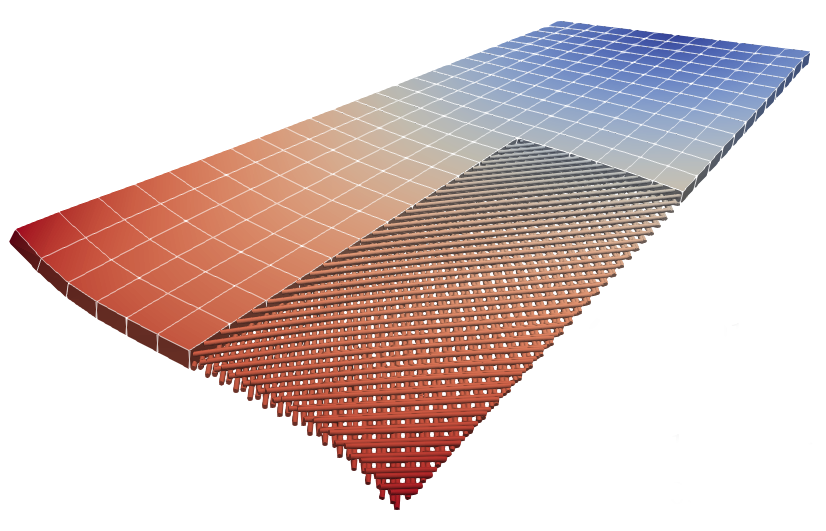
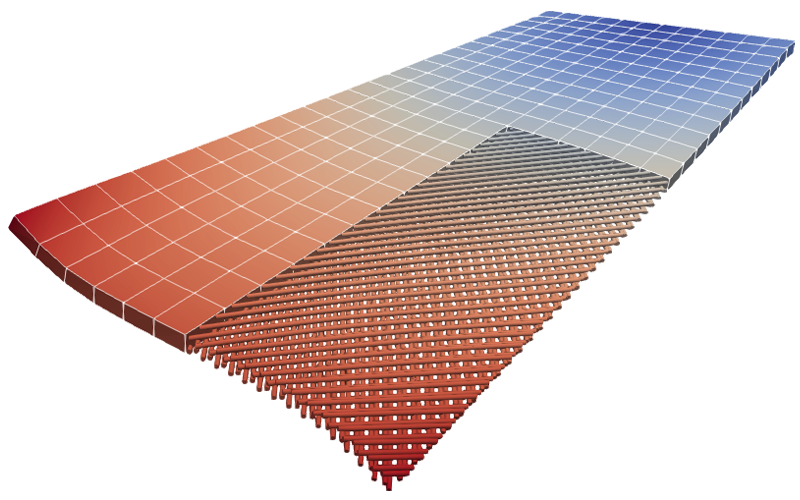
feat: polish website
- remove sidebar
- open links in new tab
- clean-up images (transparent + same size)

diff --git a/website/docs/source/static/js/custom.js b/website/docs/source/static/js/custom.js
@@ -1,0 +1,12 @@
+/*
+ * This script modifies external links in the Sphinx-generated HTML.
+ * All external links (http/https) that are NOT marked as internal
+ * will be opened in a new browser tab.
+ *
+ * We use jQuery's $(document).ready() to wait until the DOM is fully loaded.
+ */
+$(document).ready(function () {
+    $('a[href^="http://"], a[href^="https://"]')
+        .not('a[class*=internal]')
+        .attr('target', '_blank');
+});

diff --git a/website/docs/source/conf.py b/website/docs/source/conf.py
@@ -31,13 +31,21 @@ html_title = "MeshPy"
 html_theme_options = {
     "github_url": "https://github.com/imcs-compsim/meshpy",
 }
+html_show_sourcelink = False  # Hide "View Source" link on the right side of the page
 
-# myst configuration (markdown support)
+# extensions
 extensions = [
-    "myst_parser",
+    "myst_parser",  # to enable Markdown support
+    "sphinxcontrib.jquery",  # to enable custom JavaScript (open links in new empty tab)
 ]
+
+# markdown configuration
 myst_enable_extensions = [
     "colon_fence",  # For ::: fenced code blocks
     "linkify",  # Auto-detects URLs and makes them hyperlinks
 ]
 myst_heading_anchors = 3  # automatic heading anchors for Markdown files
+
+# JavaScript configuration (to open links in new tabs)
+html_js_files = ["js/custom.js"]
+html_static_path = ["static"]

diff --git a/README.md b/README.md
@@ -72,25 +72,28 @@ the [Institute for Computational Mechanics (LNM)](https://www.epc.ed.tum.de/lnm/
 
 ## Examples
 
-<p align="center">
-  <img src="https://raw.githubusercontent.com/imcs-compsim/meshpy/refs/heads/main/doc/assets/honeycomb.png" width="350" title="Honeycomb structure under tension (simulated with 4C)">
-</p>
-<p align="center" style="font-style: italic; color: gray;">Honeycomb structure under tension (simulated with 4C)</p>
-
-<p align="center">
-  <img src="https://raw.githubusercontent.com/imcs-compsim/meshpy/refs/heads/main/doc/assets/composite_plate.png" width="400" title="Fiber reinforced composite plate (simulated with 4C)">
-</p>
-<p align="center" style="font-style: italic; color: gray;">Fiber reinforced composite plate (simulated with 4C)</p>
-
-<p align="center">
-  <img src="https://raw.githubusercontent.com/imcs-compsim/meshpy/refs/heads/main/doc/assets/pressure_pipe.png" width="350" title="Fiber reinforced pipe under pressure (simulated with 4C)">
-</p>
-<p align="center" style="font-style: italic; color: gray;">Fiber reinforced pipe under pressure (simulated with 4C)</p>
-
-<p align="center">
-  <img src="https://raw.githubusercontent.com/imcs-compsim/meshpy/refs/heads/main/doc/assets/twisted_plate.png" width="350" title="Fiber reinforcements of a twisted plate (simulated with 4C)">
-</p>
-<p align="center" style="font-style: italic; color: gray;">Fiber reinforcements of a twisted plate (simulated with 4C)</p>
+<table style="margin-left: auto; margin-right: auto; border-collapse: separate; border-spacing: 20px;">
+  <tr>
+    <td align="center">
+      <img src="https://raw.githubusercontent.com/imcs-compsim/meshpy/refs/heads/main/doc/assets/honeycomb.png" width="350" class="dark-light" title="Honeycomb structure under tension">
+      <div style="font-style: italic; color: gray; margin-top: 5px;">Honeycomb structure under tension</div>
+    </td>
+    <td align="center">
+      <img src="https://raw.githubusercontent.com/imcs-compsim/meshpy/refs/heads/main/doc/assets/composite_plate.png" width="350" class="dark-light" title="Fiber reinforced composite plate">
+      <div style="font-style: italic; color: gray; margin-top: 5px;">Fiber reinforced composite plate</div>
+    </td>
+  </tr>
+  <tr>
+    <td align="center">
+      <img src="https://raw.githubusercontent.com/imcs-compsim/meshpy/refs/heads/main/doc/assets/pressure_pipe.png" width="350" class="dark-light" title="Fiber reinforced pipe under pressure">
+      <div style="font-style: italic; color: gray; margin-top: 5px;">Fiber reinforced pipe under pressure</div>
+    </td>
+    <td align="center">
+      <img src="https://raw.githubusercontent.com/imcs-compsim/meshpy/refs/heads/main/doc/assets/twisted_plate.png" width="350" class="dark-light" title="Fiber reinforcements of a twisted plate">
+      <div style="font-style: italic; color: gray; margin-top: 5px;">Fiber reinforcements of a twisted plate</div>
+    </td>
+  </tr>
+</table>
 
 ## How to use MeshPy?
 
